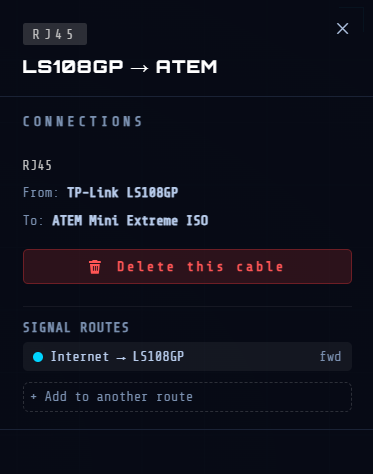
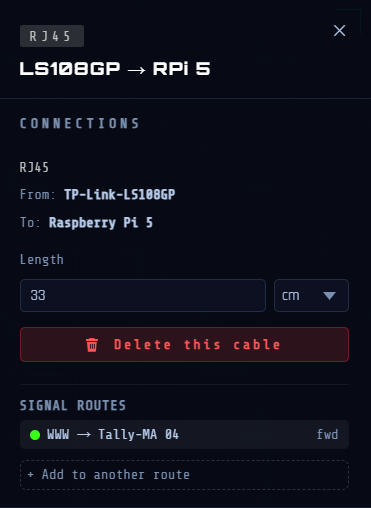
j

diff --git a/help.html b/help.html
@@ -63,6 +63,11 @@ img{max-width:100%;display:block}
 .menu-toggle{display:none;width:40px;height:38px;border:1px solid var(--line);border-radius:8px;background:rgba(255,255,255,.04);padding:9px;cursor:pointer}
 .menu-toggle span{display:block;height:2px;margin:4px 0;background:#fff;border-radius:2px}
 
+/* cookie consent footer (injected by assets/js/consent.js) — body is display:flex here for the
+   sidebar+content layout, so this needs position:fixed or it becomes a 3rd flex item and eats
+   the page's right-hand width instead of sitting as a normal bottom bar */
+.cookie-standalone-footer{position:fixed;left:var(--sw);right:0;bottom:0;z-index:60}
+
 /* sidebar */
 .sidebar{position:fixed;top:var(--top-nav-h);left:0;bottom:0;width:var(--sw);background:var(--bg2);border-right:1px solid var(--line);display:flex;flex-direction:column;overflow:hidden;z-index:100}
 .sb-head{padding:14px 18px 14px;border-bottom:1px solid var(--line);flex-shrink:0}
@@ -212,6 +217,7 @@ kbd{display:inline-block;padding:1px 6px;background:rgba(0,180,220,.08);border:1
   .toc-close{display:flex;align-items:center;justify-content:center;width:32px;height:32px;border:1px solid var(--line2);border-radius:8px;background:rgba(255,255,255,.05);color:var(--muted);font-size:20px;line-height:1;cursor:pointer}
   .toc-close:hover{border-color:var(--accent);color:#fff}
   .content{margin-left:0;margin-top:calc(var(--top-nav-h) + 62px);display:block;min-height:auto}
+  .cookie-standalone-footer{left:0}
   .ch-panel{min-width:0;overflow:visible}
   .ch-section{padding:32px 18px 48px}
   h2.chapter-heading{font-size:25px}
@@ -357,7 +363,7 @@ kbd{display:inline-block;padding:1px 6px;background:rgba(0,180,220,.08);border:1
 <span class="toc-ch-label" data-i18n="toc_title_ch10">Routes de signal</span>
 <span class="toc-arrow">►</span>
 </button>
-<ul class="toc-secs" hidden=""><li><a class="toc-sec" data-i18n="toc_sec_sec-ouverture-du-panneau-routes" href="#sec-ouverture-du-panneau-routes" onclick="showChapter('ch10')">Ouverture du panneau Routes</a></li><li><a class="toc-sec" data-i18n="toc_sec_sec-structure-de-la-route" href="#sec-structure-de-la-route" onclick="showChapter('ch10')">Structure de la route</a></li><li><a class="toc-sec" data-i18n="toc_sec_sec-chemins" href="#sec-chemins" onclick="showChapter('ch10')">Chemins</a></li><li><a class="toc-sec" data-i18n="toc_sec_sec-affectation-de-c-bles-une-route" href="#sec-affectation-de-c-bles-une-route" onclick="showChapter('ch10')">Affectation de câbles à une route</a></li><li><a class="toc-sec" data-i18n="toc_sec_sec-gestion-des-segments-et-des-chemins" href="#sec-gestion-des-segments-et-des-chemins" onclick="showChapter('ch10')">Gestion des segments et des chemins</a></li><li><a class="toc-sec" data-i18n="toc_sec_sec-modifier-une-route" href="#sec-modifier-une-route" onclick="showChapter('ch10')">Modifier une route</a></li><li><a class="toc-sec" data-i18n="toc_sec_sec-supprimer-un-segment" href="#sec-supprimer-un-segment" onclick="showChapter('ch10')">Supprimer un segment</a></li><li><a class="toc-sec" data-i18n="toc_sec_sec-supprimer-une-route" href="#sec-supprimer-une-route" onclick="showChapter('ch10')">Supprimer une route</a></li><li><a class="toc-sec" data-i18n="toc_sec_sec-animation-suivi-du-signal" href="#sec-animation-suivi-du-signal" onclick="showChapter('ch10')">Animation — suivi du signal</a></li><li><a class="toc-sec" data-i18n="toc_sec_sec-tats-visuels-de-la-route" href="#sec-tats-visuels-de-la-route" onclick="showChapter('ch10')">États visuels de la route</a></li></ul>
+<ul class="toc-secs" hidden=""><li><a class="toc-sec" data-i18n="toc_sec_sec-ouverture-du-panneau-routes" href="#sec-ouverture-du-panneau-routes" onclick="showChapter('ch10')">Ouverture du panneau Routes</a></li><li><a class="toc-sec" data-i18n="toc_sec_sec-structure-de-la-route" href="#sec-structure-de-la-route" onclick="showChapter('ch10')">Structure de la route</a></li><li><a class="toc-sec" data-i18n="toc_sec_sec-chemins" href="#sec-chemins" onclick="showChapter('ch10')">Chemins</a></li><li><a class="toc-sec" data-i18n="toc_sec_sec-affectation-de-c-bles-une-route" href="#sec-affectation-de-c-bles-une-route" onclick="showChapter('ch10')">Affectation de câbles à une route</a></li><li><a class="toc-sec" data-i18n="toc_sec_sec-gestion-des-segments-et-des-chemins" href="#sec-gestion-des-segments-et-des-chemins" onclick="showChapter('ch10')">Gestion des segments et des chemins</a></li><li><a class="toc-sec" data-i18n="toc_sec_sec-modifier-une-route" href="#sec-modifier-une-route" onclick="showChapter('ch10')">Modifier une route</a></li><li><a class="toc-sec" data-i18n="toc_sec_sec-animation-suivi-du-signal" href="#sec-animation-suivi-du-signal" onclick="showChapter('ch10')">Animation — suivi du signal</a></li><li><a class="toc-sec" data-i18n="toc_sec_sec-tats-visuels-de-la-route" href="#sec-tats-visuels-de-la-route" onclick="showChapter('ch10')">États visuels de la route</a></li></ul>
 </div>
 <div class="toc-chapter" data-ch="ch11">
 <button aria-expanded="false" class="toc-ch-btn" onclick="handleChClick('ch11',this)">
@@ -837,13 +843,13 @@ Cliquez sur Placer sur le canevas.</li>
 <div class="table-wrap"><table class="help-table"><thead><tr><th data-i18n="ch10_th1"><strong>Action</strong></th><th data-i18n="ch10_th2"><strong>Effet</strong></th></tr></thead><tbody><tr class="pair-a"><td data-i18n="ch10_td1"><span class="wires-btn">⇄</span> sur le segment</td><td data-i18n="ch10_td2">Inversez la direction du signal de ce segment. Le titre de la route est mis à jour automatiquement</td></tr><tr class="pair-b"><td data-i18n="ch10_td3"><span class="wires-btn wires-btn-danger">✕</span> sur le segment</td><td data-i18n="ch10_td4">Supprimer ce segment et son câble (confirmation demandée)</td></tr><tr class="pair-a"><td data-i18n="ch10_td5"><strong>Faites glisser la ligne du segment</strong></td><td data-i18n="ch10_td6">Déplacez-le à une autre position, dans le tronc ou un autre chemin</td></tr><tr class="pair-b"><td data-i18n="ch10_td7"><span class="wires-btn">+ Chemin</span></td><td data-i18n="ch10_td8">Ajouter un nouveau chemin de branche à l'intérieur de cette route</td></tr><tr class="pair-a"><td data-i18n="ch10_td9"><span class="wires-btn wires-btn-danger">✕</span> sur l'en-tête du chemin</td><td data-i18n="ch10_td10">Supprimez ce chemin et tous ses segments</td></tr><tr class="pair-b"><td></td><td></td></tr></tbody></table></div>
 <p data-i18n="ch10_p4"><em>ℹ  Si</em><em> </em><em>les extrémités de </em><em>deux segments consécutifs ne sont pas connecté</em><em>e</em><em>s, un symbole </em><em>≠</em><em> apparaît. Cela peut se produire après avoir inversé la direction d'un câble (</em><em>⇄</em><em>). L'indicateur est uniquement informatif.</em></p>
 <h3 class="section-heading" data-i18n="sec_sec-modifier-une-route" id="sec-modifier-une-route"><strong>Modifier une route</strong></h3>
-<p data-i18n="ch10_p5">Cliquez sur ✎ sur l'en-tête d’une route pour modifier sa couleur et son type de signal.</p>
-<h3 class="section-heading" data-i18n="sec_sec-supprimer-un-segment" id="sec-supprimer-un-segment"><strong>Supprimer un segment</strong></h3>
-<p data-i18n="ch10_p6">Cliquer ✕ sur un segment supprimera son câble — un câble ne peut exister sans route. Le câble concerné est mis en surbrillance sur le canevas. La boîte de dialogue de confirmation indique les deux appareils reliés par ce câble. Cliquez sur <span class="wires-btn wires-btn-danger"> Supprimer le câble </span> pour confirmer, ou sur <span class="wires-btn wires-btn-ghost"> Annuler </span> pour tout laisser inchangé.</p>
-<h3 class="section-heading" data-i18n="sec_sec-supprimer-une-route" id="sec-supprimer-une-route"><strong>Supprimer une route</strong></h3>
-<p data-i18n="ch10_p7">Cliquer sur ✕ sur l'en-tête d’une route supprime la route et tous ses câbles. Une boîte de dialogue de confirmation répertorie les câbles à supprimer. Cliquez sur <span class="wires-btn wires-btn-danger"> Supprimer route + câbles </span> pour confirmer, ou sur <span class="wires-btn wires-btn-ghost"> Annuler </span> pour tout laisser inchangé.</p>
+<ul>
+<li data-i18n="ch10_p5">Cliquez sur ✎ sur l'en-tête d’une route pour modifier sa couleur et son type de signal.</li>
+<li data-i18n="ch10_p6"><strong>Supprimer un segment.</strong> Cliquer ✕ sur un segment supprimera son câble — un câble ne peut exister sans route. Le câble concerné est mis en surbrillance sur le canevas. La boîte de dialogue de confirmation indique les deux appareils reliés par ce câble. Cliquez sur <span class="wires-btn wires-btn-danger"> Supprimer le câble </span> pour confirmer, ou sur <span class="wires-btn wires-btn-ghost"> Annuler </span> pour tout laisser inchangé.</li>
+<li data-i18n="ch10_p7"><strong>Supprimer une route.</strong> Cliquer sur ✕ sur l'en-tête d’une route supprime la route et tous ses câbles. Une boîte de dialogue de confirmation répertorie les câbles à supprimer. Cliquez sur <span class="wires-btn wires-btn-danger"> Supprimer route + câbles </span> pour confirmer, ou sur <span class="wires-btn wires-btn-ghost"> Annuler </span> pour tout laisser inchangé.</li>
+</ul>
 <h3 class="section-heading" data-i18n="sec_sec-animation-suivi-du-signal" id="sec-animation-suivi-du-signal"><strong>Animation — suivi du signal</strong></h3>
-<div class="table-wrap"><table class="help-table"><thead><tr><th data-i18n="ch10_th3"><strong>Action</strong></th><th data-i18n="ch10_th4"><strong>Effet</strong></th></tr></thead><tbody><tr class="pair-a"><td data-i18n="ch10_td11"><strong>Double-cliquez sur le titre de la route</strong></td><td data-i18n="ch10_td12">Lancement de l’animation : un point lumineux se déplace le long des câbles</td></tr><tr class="pair-b"><td data-i18n="ch10_td13"><strong>Cliquez sur le nom de la route</strong></td><td data-i18n="ch10_td14">Arrêter l'animation</td></tr><tr class="pair-a"><td data-i18n="ch10_td15"><strong>Cliquez sur un canevas vide</strong></td><td data-i18n="ch10_td16">Arrêter l'animation</td></tr><tr class="pair-b"><td data-i18n="ch10_td17"><strong>Double-cliquez sur un câble sur le canevas</strong></td><td data-i18n="ch10_td18">Activer/désactiver l'animation pour toutes les routes contenant ce câble</td></tr></tbody></table></div>
+<div class="table-wrap"><table class="help-table"><thead><tr><th data-i18n="ch10_th3"><strong>Action</strong></th><th data-i18n="ch10_th4"><strong>Effet</strong></th></tr></thead><tbody><tr class="pair-a"><td data-i18n="ch10_td23"><strong>Double-cliquez sur le titre du panneau</strong> <img alt="routesTitreGeneral" data-i18n-alt="img_routesTitreGeneral_alt" data-i18n-src="img_routesTitreGeneral_src" data-img-key="routesTitreGeneral" src="images/FR/Boutons/routes_titre_general-fr.png" style="height:30px;width:auto;display:inline-block;vertical-align:middle;border-radius:3px;margin-left:2px;margin-top:-5px;margin-bottom:-5px"/></td><td data-i18n="ch10_td24">Lance l’animation de toutes les routes en même temps ; un second double-clic les arrête toutes</td></tr><tr class="pair-b"><td data-i18n="ch10_td11"><strong>Double-cliquez sur le titre de la route</strong></td><td data-i18n="ch10_td12">Lancement de l’animation : un point lumineux se déplace le long des câbles</td></tr><tr class="pair-a"><td data-i18n="ch10_td13"><strong>Cliquez sur le nom de la route</strong></td><td data-i18n="ch10_td14">Arrêter l'animation</td></tr><tr class="pair-b"><td data-i18n="ch10_td15"><strong>Cliquez sur un canevas vide</strong></td><td data-i18n="ch10_td16">Arrêter l'animation</td></tr><tr class="pair-a"><td data-i18n="ch10_td17"><strong>Double-cliquez sur un câble sur le canevas</strong></td><td data-i18n="ch10_td18">Activer/désactiver l'animation pour toutes les routes contenant ce câble</td></tr></tbody></table></div>
 <p data-i18n="ch10_p8"><em> </em><em>ℹ</em><em> L'en-tête de la route devient jaune pendant l'exécution de l'animation. </em></p>
 <h3 class="section-heading" data-i18n="sec_sec-tats-visuels-de-la-route" id="sec-tats-visuels-de-la-route"><strong>États visuels de la route</strong></h3>
 <div class="table-wrap"><table class="help-table"><thead><tr><th data-i18n="ch10_th5"><strong>État</strong></th><th data-i18n="ch10_th6"><strong>Apparence</strong></th><th data-i18n="ch10_th7">Aperçu</th></tr></thead><tbody><tr class="pair-a"><td data-i18n="ch10_td19"><strong>Inactif</strong></td><td data-i18n="ch10_td20">Panneau : en-tête normal / Canevas : câbles normaux</td><td style="text-align:center;vertical-align:middle;padding:10px 14px"><img alt="route.inactive" data-i18n-alt="img_route.inactive_alt" data-i18n-src="img_route.inactive_src" data-img-key="route.inactive" src="images/FR/route.inactive-fr.png" style="border-radius:4px;display:block"/></td></tr><tr class="pair-b"><td data-i18n="ch10_td21"><strong>Actif (en cours d'exécution)</strong></td><td data-i18n="ch10_td22">Panneau : en-tête jaune + bordure gauche dorée / Canevas : câbles lumineux, autres grisés</td><td style="text-align:center;vertical-align:middle;padding:10px 14px"><img alt="route.active" data-i18n-alt="img_route.active_alt" data-i18n-src="img_route.active_src" data-img-key="route.active" src="images/FR/route.active-fr.png" style="border-radius:4px;display:block"/></td></tr></tbody></table></div></div><div class="ch-imgs">
@@ -1319,12 +1325,8 @@ const HELP_HEADER_STRINGS = {
     "sec_sec-modifier-une-route": "<strong>Editing a Route</strong>",
     "toc_sec_sec-modifier-une-route": "Editing a Route",
     "ch10_p5": "Click ✎ on a route's header to edit its color and signal type.",
-    "sec_sec-supprimer-un-segment": "<strong>Deleting a Segment</strong>",
-    "toc_sec_sec-supprimer-un-segment": "Deleting a Segment",
-    "ch10_p6": "Clicking ✕ on a segment deletes its cable — a cable cannot exist without a route. The affected cable is highlighted on the canvas. The confirmation dialog box shows the two devices connected by this cable. Click <span class=\"wires-btn wires-btn-danger\"> Delete cable </span> to confirm, or <span class=\"wires-btn wires-btn-ghost\"> Cancel </span> to leave everything unchanged.",
-    "sec_sec-supprimer-une-route": "<strong>Deleting a Route</strong>",
-    "toc_sec_sec-supprimer-une-route": "Deleting a Route",
-    "ch10_p7": "Clicking ✕ on a route's header deletes the route and all its cables. A confirmation dialog lists the cables to be deleted. Click <span class=\"wires-btn wires-btn-danger\"> Delete route + cables </span> to confirm, or <span class=\"wires-btn wires-btn-ghost\"> Cancel </span> to leave everything unchanged.",
+    "ch10_p6": "<strong>Deleting a Segment.</strong> Clicking ✕ on a segment deletes its cable — a cable cannot exist without a route. The affected cable is highlighted on the canvas. The confirmation dialog box shows the two devices connected by this cable. Click <span class=\"wires-btn wires-btn-danger\"> Delete cable </span> to confirm, or <span class=\"wires-btn wires-btn-ghost\"> Cancel </span> to leave everything unchanged.",
+    "ch10_p7": "<strong>Deleting a Route.</strong> Clicking ✕ on a route's header deletes the route and all its cables. A confirmation dialog lists the cables to be deleted. Click <span class=\"wires-btn wires-btn-danger\"> Delete route + cables </span> to confirm, or <span class=\"wires-btn wires-btn-ghost\"> Cancel </span> to leave everything unchanged.",
     "sec_sec-animation-suivi-du-signal": "<strong>Animation — Signal Tracking</strong>",
     "toc_sec_sec-animation-suivi-du-signal": "Animation — Signal Tracking",
     "ch10_th3": "<strong>Action</strong>",
@@ -1347,6 +1349,8 @@ const HELP_HEADER_STRINGS = {
     "ch10_td20": "Panel: normal header / Canvas: normal cables",
     "ch10_td21": "<strong>Active (running)</strong>",
     "ch10_td22": "Panel: yellow header + golden left border / Canvas: glowing cables, others grayed out",
+    "ch10_td23": "<strong>Double-click the panel title</strong> <img alt=\"routesTitreGeneral\" data-i18n-alt=\"img_routesTitreGeneral_alt\" data-i18n-src=\"img_routesTitreGeneral_src\" data-img-key=\"routesTitreGeneral\" src=\"images/EN/Boutons/routes_titre_general-en.png\" style=\"height:30px;width:auto;display:inline-block;vertical-align:middle;border-radius:3px;margin-left:2px;margin-top:-5px;margin-bottom:-5px\"/>",
+    "ch10_td24": "Starts the animation of all routes at once; a second double-click stops them all",
 
     "toc_title_ch9": "Canvas Navigation",
     "title_ch9": "Canvas Navigation",
@@ -1935,6 +1939,8 @@ const HELP_HEADER_STRINGS = {
     "img_panneauDroit2_alt": "panneauDroit2",
     "img_route.inactive_src": "images/EN/route.inactive-en.png",
     "img_route.inactive_alt": "route.inactive",
+    "img_routesTitreGeneral_src": "images/EN/Boutons/routes_titre_general-en.png",
+    "img_routesTitreGeneral_alt": "routesTitreGeneral",
     "img_route.active_src": "images/EN/route.active-en.png",
     "img_route.active_alt": "route.active",
     "img_routes_src": "images/EN/routes-en.png",
@@ -2445,10 +2451,8 @@ const HELP_HEADER_STRINGS = {
     "ch10_p4": "<em>ℹ  Si</em><em> </em><em>les extrémités de </em><em>deux segments consécutifs ne sont pas connecté</em><em>e</em><em>s, un symbole </em><em>≠</em><em> apparaît. Cela peut se produire après avoir inversé la direction d'un câble (</em><em>⇄</em><em>). L'indicateur est uniquement informatif.</em>",
     "sec_sec-modifier-une-route": "<strong>Modifier une route</strong>",
     "ch10_p5": "Cliquez sur ✎ sur l'en-tête d’une route pour modifier sa couleur et son type de signal.",
-    "sec_sec-supprimer-un-segment": "<strong>Supprimer un segment</strong>",
-    "ch10_p6": "Cliquer ✕ sur un segment supprimera son câble — un câble ne peut exister sans route. Le câble concerné est mis en surbrillance sur le canevas. La boîte de dialogue de confirmation indique les deux appareils reliés par ce câble. Cliquez sur <span class=\"wires-btn wires-btn-danger\"> Supprimer le câble </span> pour confirmer, ou sur <span class=\"wires-btn wires-btn-ghost\"> Annuler </span> pour tout laisser inchangé.",
-    "sec_sec-supprimer-une-route": "<strong>Supprimer une route</strong>",
-    "ch10_p7": "Cliquer sur ✕ sur l'en-tête d’une route supprime la route et tous ses câbles. Une boîte de dialogue de confirmation répertorie les câbles à supprimer. Cliquez sur <span class=\"wires-btn wires-btn-danger\"> Supprimer route + câbles </span> pour confirmer, ou sur <span class=\"wires-btn wires-btn-ghost\"> Annuler </span> pour tout laisser inchangé.",
+    "ch10_p6": "<strong>Supprimer un segment.</strong> Cliquer ✕ sur un segment supprimera son câble — un câble ne peut exister sans route. Le câble concerné est mis en surbrillance sur le canevas. La boîte de dialogue de confirmation indique les deux appareils reliés par ce câble. Cliquez sur <span class=\"wires-btn wires-btn-danger\"> Supprimer le câble </span> pour confirmer, ou sur <span class=\"wires-btn wires-btn-ghost\"> Annuler </span> pour tout laisser inchangé.",
+    "ch10_p7": "<strong>Supprimer une route.</strong> Cliquer sur ✕ sur l'en-tête d’une route supprime la route et tous ses câbles. Une boîte de dialogue de confirmation répertorie les câbles à supprimer. Cliquez sur <span class=\"wires-btn wires-btn-danger\"> Supprimer route + câbles </span> pour confirmer, ou sur <span class=\"wires-btn wires-btn-ghost\"> Annuler </span> pour tout laisser inchangé.",
     "sec_sec-animation-suivi-du-signal": "<strong>Animation — suivi du signal</strong>",
     "ch10_th3": "<strong>Action</strong>",
     "ch10_th4": "<strong>Effet</strong>",
@@ -2469,6 +2473,8 @@ const HELP_HEADER_STRINGS = {
     "ch10_td20": "Panneau : en-tête normal / Canevas : câbles normaux",
     "ch10_td21": "<strong>Actif (en cours d'exécution)</strong>",
     "ch10_td22": "Panneau : en-tête jaune + bordure gauche dorée / Canevas : câbles lumineux, autres grisés",
+    "ch10_td23": "<strong>Double-cliquez sur le titre du panneau</strong> <img alt=\"routesTitreGeneral\" data-i18n-alt=\"img_routesTitreGeneral_alt\" data-i18n-src=\"img_routesTitreGeneral_src\" data-img-key=\"routesTitreGeneral\" src=\"images/FR/Boutons/routes_titre_general-fr.png\" style=\"height:30px;width:auto;display:inline-block;vertical-align:middle;border-radius:3px;margin-left:2px;margin-top:-5px;margin-bottom:-5px\"/>",
+    "ch10_td24": "Lance l’animation de toutes les routes en même temps ; un second double-clic les arrête toutes",
     "title_ch11": "Bibliothèque et catégories",
     "sec_sec-filtres-de-la-barre-lat-rale-gauche": "<strong>Filtres de la barre latérale gauche</strong>",
     "ch11_p1": "La barre latérale gauche comporte trois sections réductibles : Catégories, Câbles et Zones. Cliquez sur son nom pour la réduire ou la développer. Chaque section possède son propre bouton <span class=\"wires-btn\"> Tous  </span>qui réinitialise le filtre, laissant les autres intacts. La barre latérale s'ouvre lorsque vous survolez la bande gauche et se ferme automatiquement lorsque vous vous en éloignez. Appuyez sur B pour la garder ouverte en permanence. Appuyez à nouveau pour revenir au mode automatique.",
@@ -2783,8 +2789,6 @@ const HELP_HEADER_STRINGS = {
     "toc_sec_sec-affectation-de-c-bles-une-route": "Affectation de câbles à une route",
     "toc_sec_sec-gestion-des-segments-et-des-chemins": "Gestion des segments et des chemins",
     "toc_sec_sec-modifier-une-route": "Modifier une route",
-    "toc_sec_sec-supprimer-un-segment": "Supprimer un segment",
-    "toc_sec_sec-supprimer-une-route": "Supprimer une route",
     "toc_sec_sec-animation-suivi-du-signal": "Animation — suivi du signal",
     "toc_sec_sec-tats-visuels-de-la-route": "États visuels de la route",
     "toc_title_ch11": "Bibliothèque et catégories",
@@ -2849,6 +2853,8 @@ const HELP_HEADER_STRINGS = {
     "img_panneauDroit2_alt": "panneauDroit2",
     "img_route.inactive_src": "images/FR/route.inactive-fr.png",
     "img_route.inactive_alt": "route.inactive",
+    "img_routesTitreGeneral_src": "images/FR/Boutons/routes_titre_general-fr.png",
+    "img_routesTitreGeneral_alt": "routesTitreGeneral",
     "img_route.active_src": "images/FR/route.active-fr.png",
     "img_route.active_alt": "route.active",
     "img_routes_src": "images/FR/routes-fr.png",
@@ -3160,12 +3166,8 @@ const HELP_HEADER_STRINGS = {
     "sec_sec-modifier-une-route": "<strong>Modificar una ruta</strong>",
     "toc_sec_sec-modifier-une-route": "Modificar una ruta",
     "ch10_p5": "Haz clic en ✎ en la cabecera de una ruta para modificar su color y su tipo de señal.",
-    "sec_sec-supprimer-un-segment": "<strong>Eliminar un segmento</strong>",
-    "toc_sec_sec-supprimer-un-segment": "Eliminar un segmento",
-    "ch10_p6": "Al hacer clic en ✕ en un segmento se eliminará su cable — un cable no puede existir sin una ruta. El cable correspondiente se resalta en el canvas. El cuadro de diálogo de confirmación indica los dos dispositivos conectados por este cable. Haz clic en <span class=\"wires-btn wires-btn-danger\"> Eliminar cable </span> para confirmar, o en <span class=\"wires-btn wires-btn-ghost\"> Cancelar </span> para dejarlo todo sin cambios.",
-    "sec_sec-supprimer-une-route": "<strong>Eliminar una ruta</strong>",
-    "toc_sec_sec-supprimer-une-route": "Eliminar una ruta",
-    "ch10_p7": "Al hacer clic en ✕ en la cabecera de una ruta se elimina la ruta y todos sus cables. Un cuadro de diálogo de confirmación enumera los cables que se eliminarán. Haz clic en <span class=\"wires-btn wires-btn-danger\"> Eliminar ruta + cables </span> para confirmar, o en <span class=\"wires-btn wires-btn-ghost\"> Cancelar </span> para dejarlo todo sin cambios.",
+    "ch10_p6": "<strong>Eliminar un segmento.</strong> Al hacer clic en ✕ en un segmento se eliminará su cable — un cable no puede existir sin una ruta. El cable correspondiente se resalta en el canvas. El cuadro de diálogo de confirmación indica los dos dispositivos conectados por este cable. Haz clic en <span class=\"wires-btn wires-btn-danger\"> Eliminar cable </span> para confirmar, o en <span class=\"wires-btn wires-btn-ghost\"> Cancelar </span> para dejarlo todo sin cambios.",
+    "ch10_p7": "<strong>Eliminar una ruta.</strong> Al hacer clic en ✕ en la cabecera de una ruta se elimina la ruta y todos sus cables. Un cuadro de diálogo de confirmación enumera los cables que se eliminarán. Haz clic en <span class=\"wires-btn wires-btn-danger\"> Eliminar ruta + cables </span> para confirmar, o en <span class=\"wires-btn wires-btn-ghost\"> Cancelar </span> para dejarlo todo sin cambios.",
     "sec_sec-animation-suivi-du-signal": "<strong>Animación — seguimiento de la señal</strong>",
     "toc_sec_sec-animation-suivi-du-signal": "Animación — seguimiento de la señal",
     "ch10_th3": "<strong>Acción</strong>",
@@ -3188,6 +3190,8 @@ const HELP_HEADER_STRINGS = {
     "ch10_td20": "Panel: cabecera normal / Canvas: cables normales",
     "ch10_td21": "<strong>Activo (en ejecución)</strong>",
     "ch10_td22": "Panel: cabecera amarilla + borde izquierdo dorado / Canvas: cables luminosos, el resto atenuados",
+    "ch10_td23": "<strong>Haz doble clic en el título del panel</strong> <img alt=\"routesTitreGeneral\" data-i18n-alt=\"img_routesTitreGeneral_alt\" data-i18n-src=\"img_routesTitreGeneral_src\" data-img-key=\"routesTitreGeneral\" src=\"images/ES/Boutons/routes_titre_general-es.png\" style=\"height:30px;width:auto;display:inline-block;vertical-align:middle;border-radius:3px;margin-left:2px;margin-top:-5px;margin-bottom:-5px\"/>",
+    "ch10_td24": "Inicia la animación de todas las rutas a la vez; un segundo doble clic las detiene todas",
 
     "toc_title_ch9": "Navegación en el canvas",
     "title_ch9": "Navegación en el canvas",
@@ -3778,6 +3782,8 @@ const HELP_HEADER_STRINGS = {
     "img_panneauDroit2_alt": "panneauDroit2",
     "img_route.inactive_src": "images/ES/route.inactive-es.png",
     "img_route.inactive_alt": "route.inactive",
+    "img_routesTitreGeneral_src": "images/ES/Boutons/routes_titre_general-es.png",
+    "img_routesTitreGeneral_alt": "routesTitreGeneral",
     "img_route.active_src": "images/ES/route.active-es.png",
     "img_route.active_alt": "route.active",
     "img_routes_src": "images/ES/routes-es.png",
